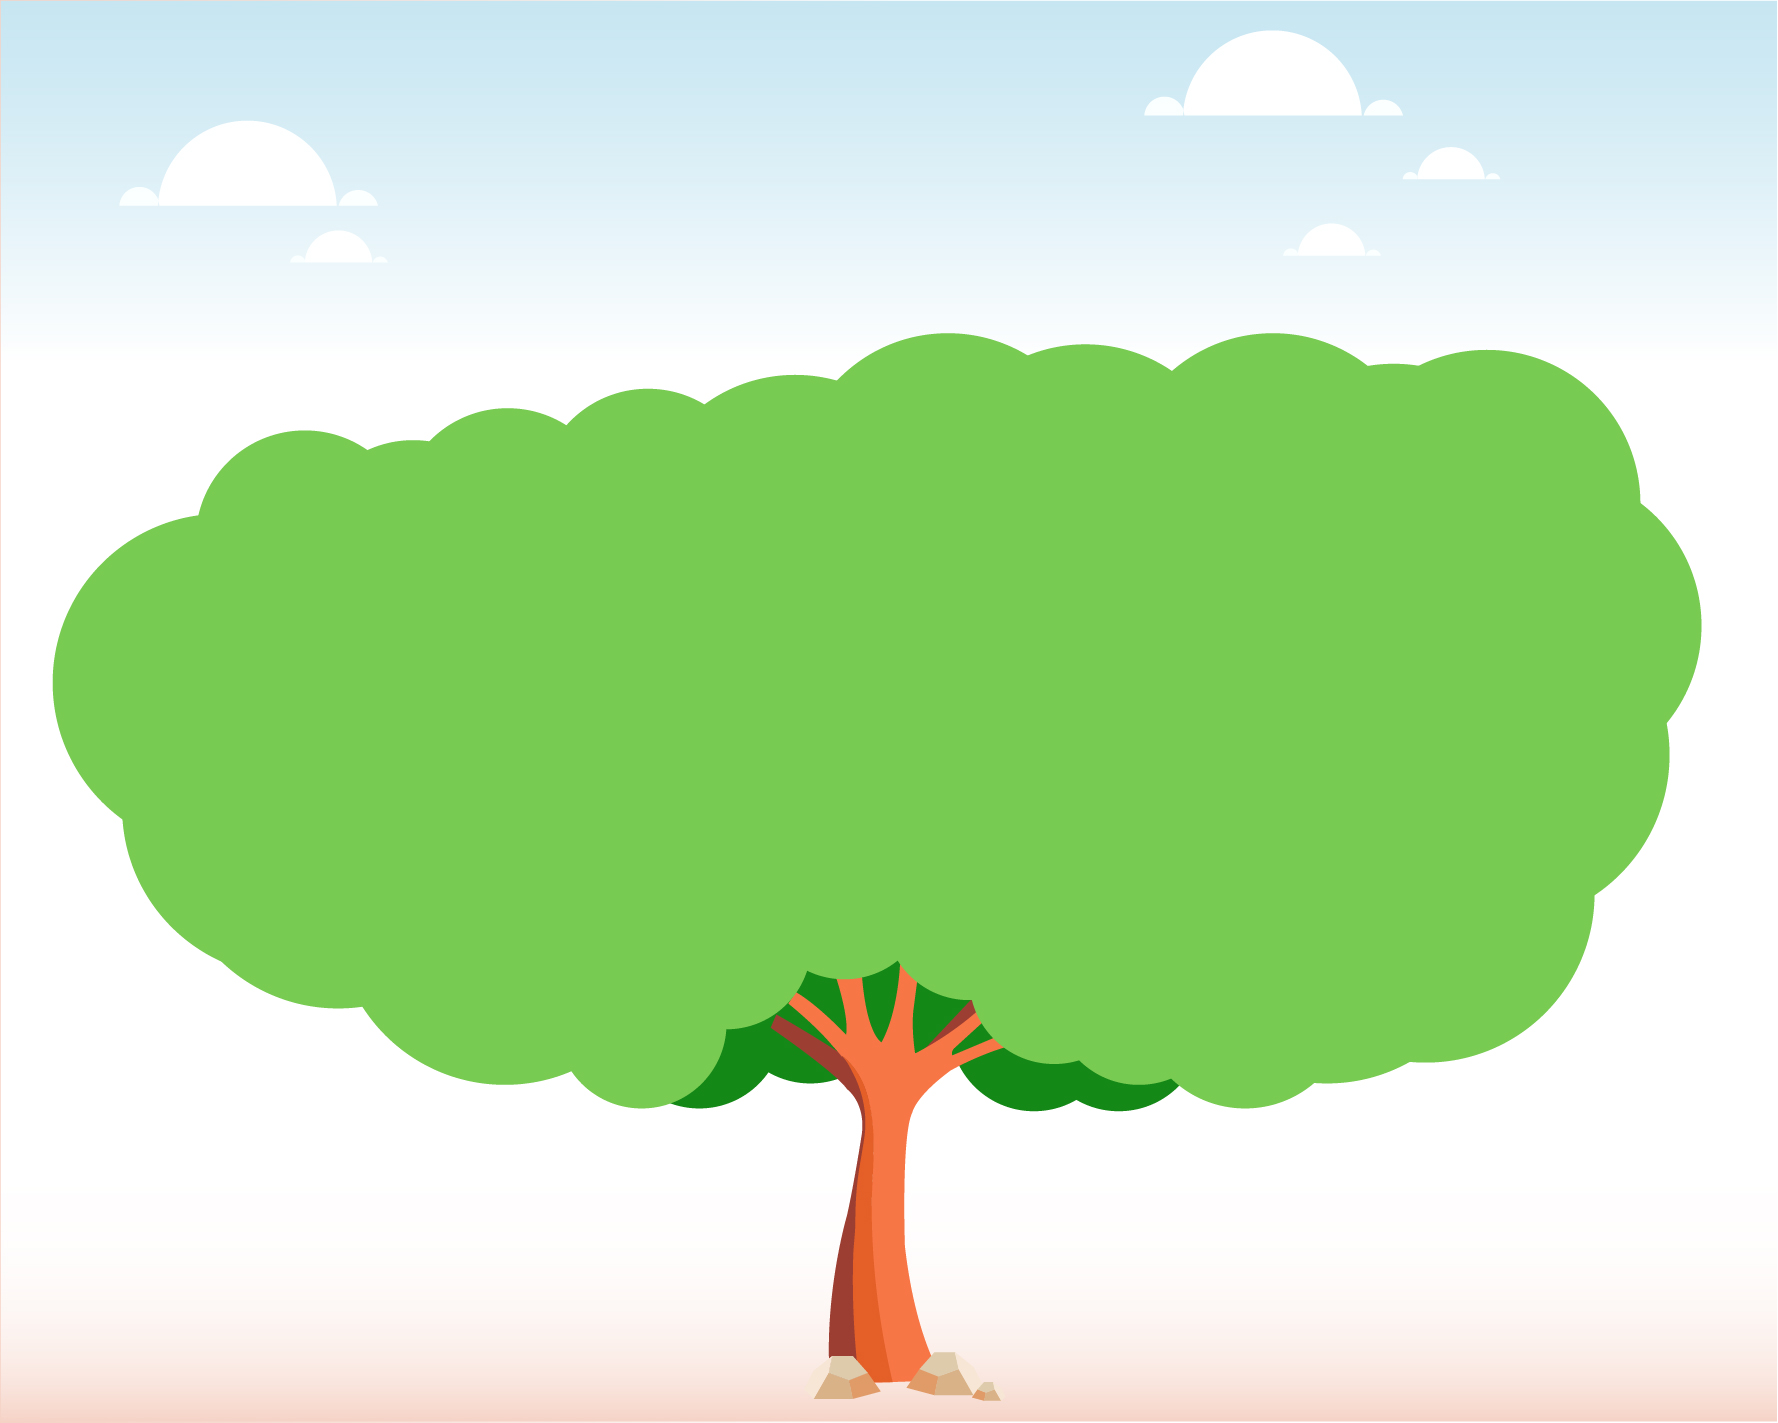
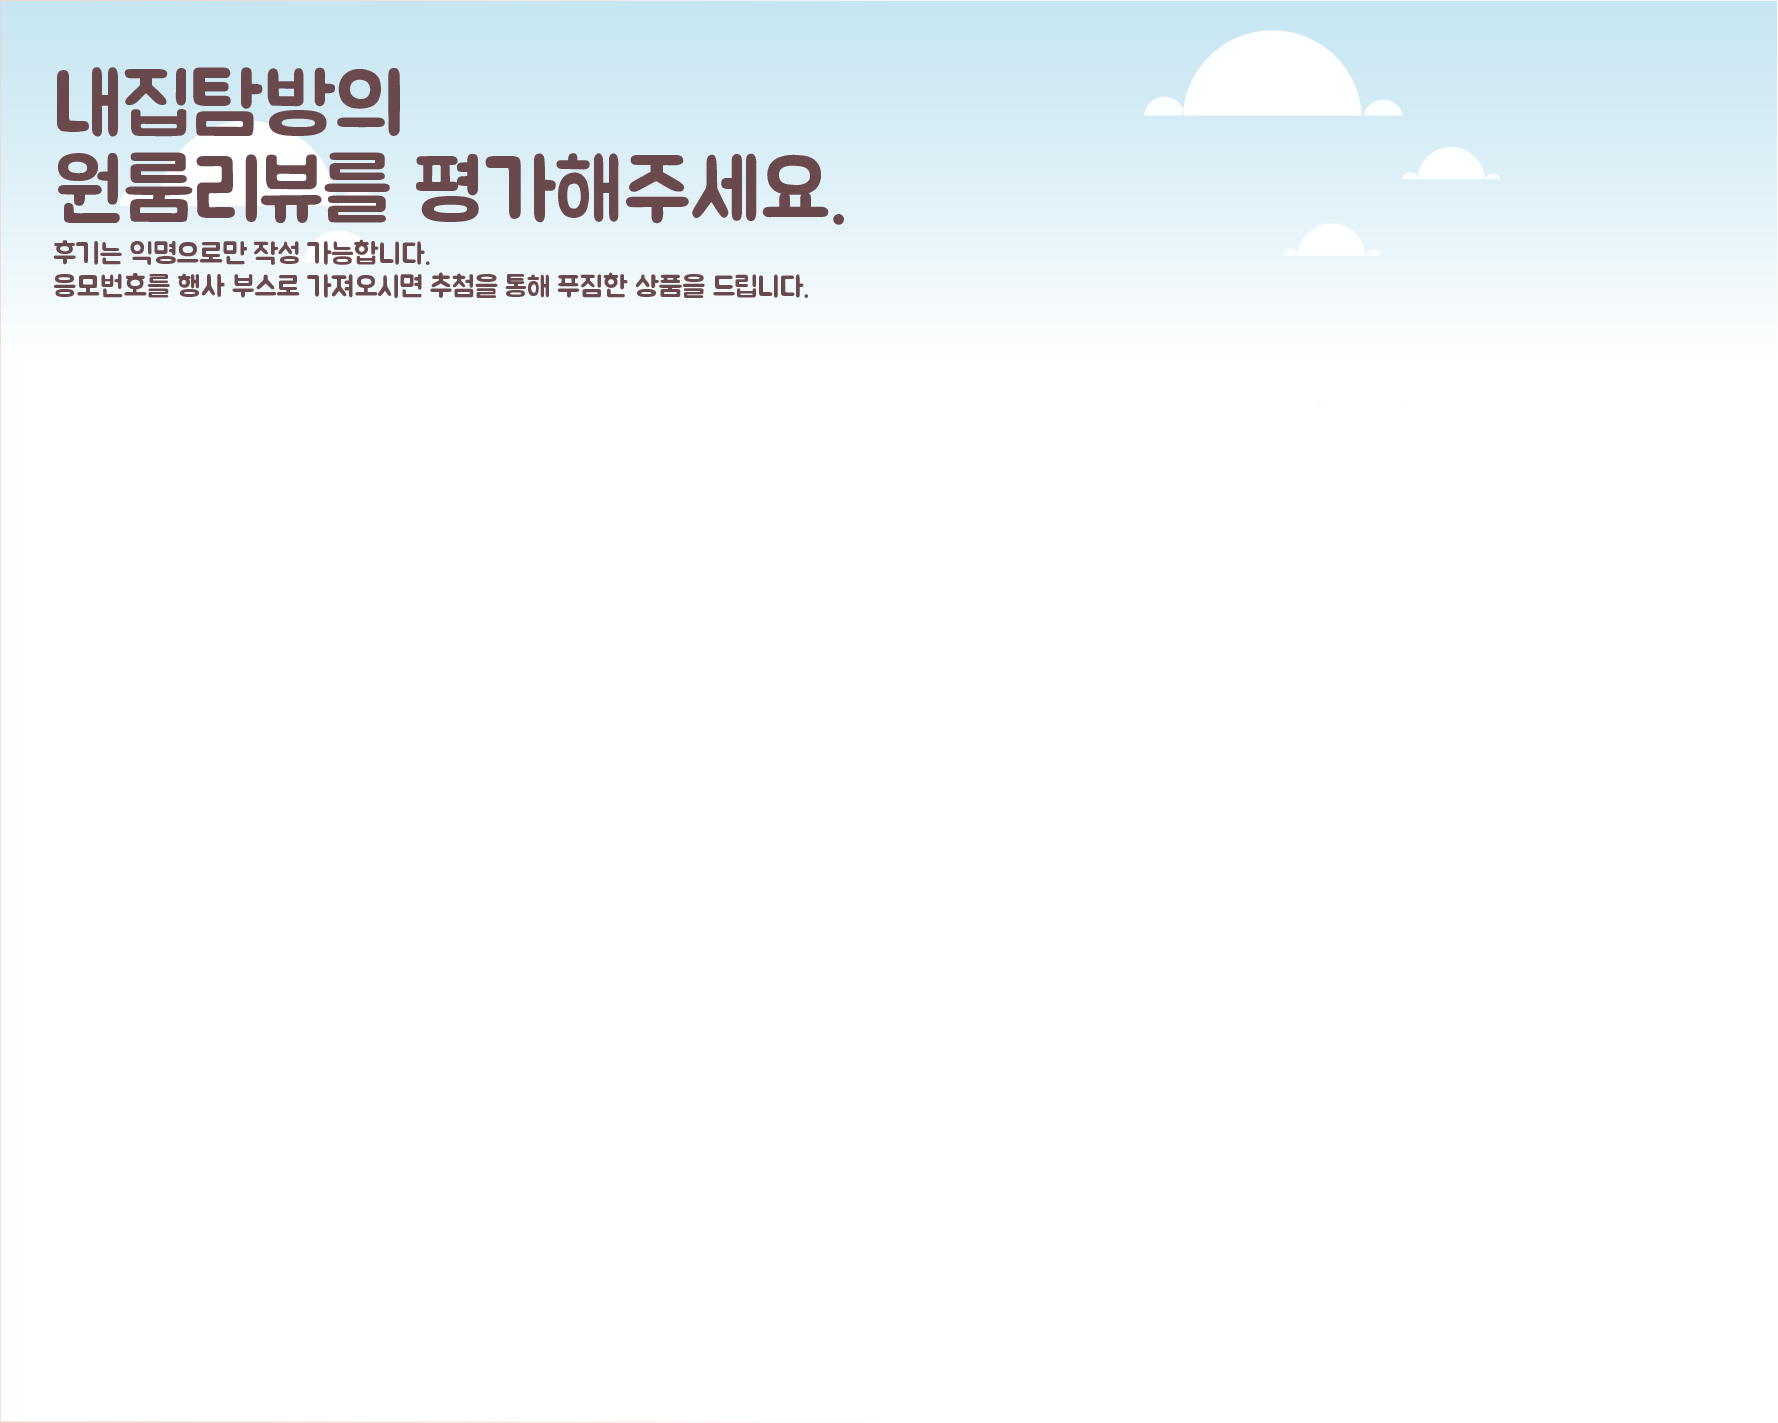
finished

diff --git a/app/assets/stylesheets/yonsei_univ.scss b/app/assets/stylesheets/yonsei_univ.scss
@@ -6,6 +6,7 @@ body {
       position: absolute;
       z-index: 1;
       padding: 30px;
+      color: #6a494c;
       .title-main {
         font-size: 45px;
       }
@@ -15,6 +16,73 @@ body {
     }
     .img-background {
       width: 100%;
+    }
+  }
+}
+
+
+#modal-form {
+  .modal-dialog {
+    width: 563px;
+    margin-top: 140px;
+    .modal-content {
+      width: 100%;
+      border-radius: 0px;
+      .modal-title {
+        padding: 16px 24px;
+        background: #f4ca66;
+        div {
+          display: inline-block;
+          font-size: 25px;
+          line-height: 25px;
+          color: #50265a;
+        }
+        .close {
+          text-shadow: none;
+          opacity: 1;
+          img {
+            vertical-align: middle;
+          }
+        }
+      }
+      .modal-body {
+        padding: 19px 30.5px;
+        font-size: 19px;
+        line-height: 19px;
+        div:first-child {
+          margin-bottom: 12px;
+        }
+        textarea {
+          font-size: 19px;
+          resize: none;
+          width: 100%;
+          height: 200px;
+        }
+      }
+      .modal-bottom {
+        padding: 19px 30.5px;
+        font-size: 19px;
+        line-height: 19px;
+        .btn-okay {
+          background: #f4ca66;
+          text-align: center;
+          color: #fff;
+          padding: 14px 0px;
+          cursor: pointer;
+          border-radius: 10px;
+        }
+      }
+    }
+    &.result {
+      .modal-content {
+        .modal-body {
+          text-align: center;
+          padding: 70px 30.5px 19px 30.5px;
+        }
+        .modal-bottom {
+          padding: 19px 30.5px 70px 30.5px;
+        }
+      }
     }
   }
 }

diff --git a/app/assets/javascripts/yonsei_univ.js b/app/assets/javascripts/yonsei_univ.js
@@ -1,0 +1,51 @@
+var yonsei;
+yonsei  = function() {
+  openModal();
+
+  function openModal() {
+    $("#modal-form").modal();
+    $('.modal-dialog.form').css('display', 'block');
+    $('.modal-dialog.result').css('display', 'none');
+  }
+
+  $('.modal-dialog.form .complete .btn-okay').on('click', function() {
+    var feed = $(this).parent().parent().find('.modal-body').find('textarea').val();
+    if(feed !== "") {
+      submitUserFeedback(feed);
+    } else {
+      alert("후기를 입력해주세요.");
+    }
+  });
+
+  $('.modal-dialog.result .complete .btn-okay').on('click', function() {
+    open(location, '_self').close();
+  });
+
+  function submitUserFeedback(feed) {
+    $.ajax({
+      url: '/submit',
+      type: 'POST',
+      dataType: 'json',
+      data: { feed: feed },
+      complete: function (jqXHR, textStatus) {
+        // callback
+      },
+      success: function (data, textStatus, jqXHR) {
+        if(data.ret) {
+          var research_num = data.research_num;
+          $('.modal-dialog.result .modal-body .result').text("응모번호: " + research_num);
+
+          $('.modal-dialog.form').css('display', 'none');
+          $('.modal-dialog.result').css('display', 'block');
+        } else {
+          alert("전송에 실패했습니다.");
+        }
+      },
+      error: function (jqXHR, textStatus, errorThrown) {
+        // error callback
+      }
+    });
+  }
+}
+
+$(document).on('turbolinks:load', yonsei);

diff --git a/app/assets/javascripts/application.js b/app/assets/javascripts/application.js
@@ -11,6 +11,7 @@
 // about supported directives.
 //
 //= require jquery
+//= require bootstrap-sprockets
 //= require jquery_ujs
 //= require turbolinks
 //= require_tree .

diff --git a/app/assets/stylesheets/application.scss b/app/assets/stylesheets/application.scss
@@ -1,0 +1,3 @@
+@import "bootstrap-sprockets";
+@import "bootstrap";
+@import "yonsei_univ.scss";

diff --git a/db/schema.rb b/db/schema.rb
@@ -11,9 +11,10 @@
 #
 # It's strongly recommended that you check this file into your version control system.
 
-ActiveRecord::Schema.define(version: 20170307045331) do
+ActiveRecord::Schema.define(version: 20170307071547) do
 
-  create_table "yonsie_univs", force: :cascade do |t|
+  create_table "yonsei_univs", force: :cascade do |t|
+    t.text     "feedback"
     t.datetime "created_at", null: false
     t.datetime "updated_at", null: false
   end

diff --git a/config/routes.rb b/config/routes.rb
@@ -5,6 +5,7 @@ Rails.application.routes.draw do
   # You can have the root of your site routed with "root"
   # root 'welcome#index'
   root 'yonsei_univ#index'
+  post '/submit' => 'yonsei_univ#submit'
 
   # Example of regular route:
   #   get 'products/:id' => 'catalog#view'

diff --git a/app/controllers/yonsei_univ_controller.rb b/app/controllers/yonsei_univ_controller.rb
@@ -1,2 +1,11 @@
 class YonseiUnivController < ApplicationController
+  def submit
+    f = YonseiUniv.create(feedback: params[:feed])
+    num = f.id
+
+    return render json: {
+      ret: true,
+      research_num: num
+    }
+  end
 end

diff --git a/db/migrate/20170307071547_create_yonsei_univs.rb b/db/migrate/20170307071547_create_yonsei_univs.rb
@@ -1,0 +1,9 @@
+class CreateYonseiUnivs < ActiveRecord::Migration
+  def change
+    create_table :yonsei_univs do |t|
+      t.text :feedback
+
+      t.timestamps null: false
+    end
+  end
+end

diff --git a/test/models/yonsei_univ_test.rb b/test/models/yonsei_univ_test.rb
@@ -1,6 +1,6 @@
 require 'test_helper'
 
-class YonsieUnivTest < ActiveSupport::TestCase
+class YonseiUnivTest < ActiveSupport::TestCase
   # test "the truth" do
   #   assert true
   # end

diff --git a/app/models/yonsei_univ.rb b/app/models/yonsei_univ.rb
@@ -1,0 +1,2 @@
+class YonseiUniv < ActiveRecord::Base
+end
